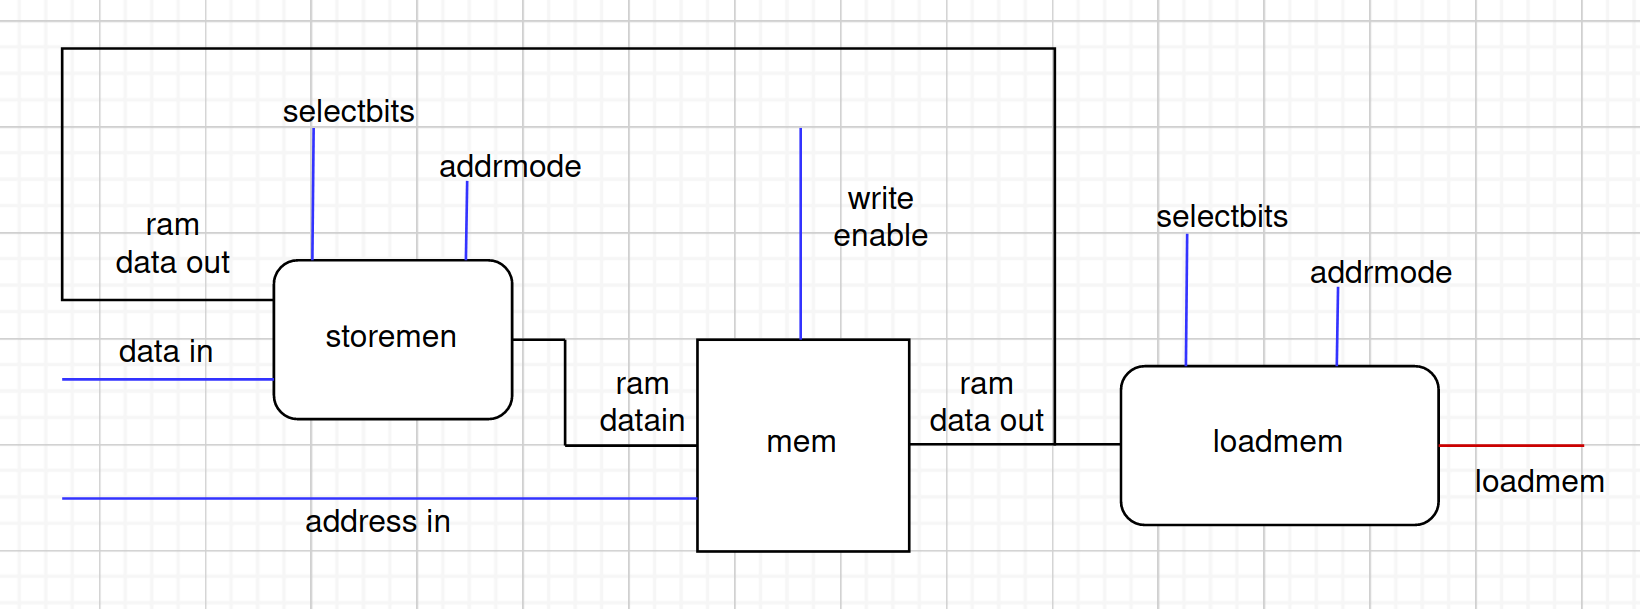
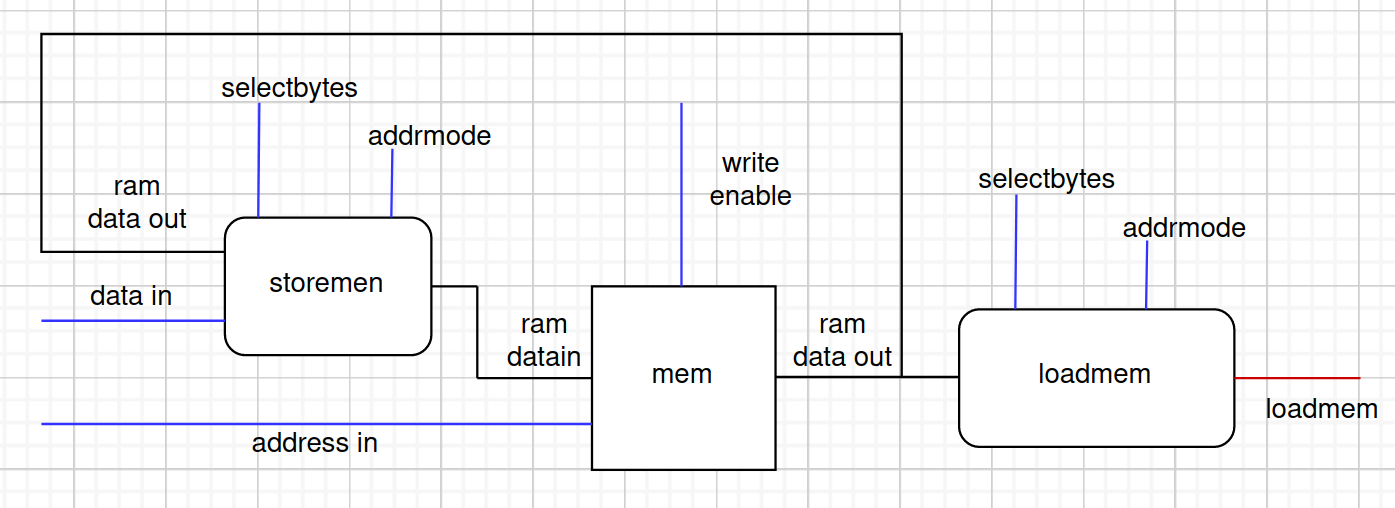
modified the picture of design with more accurate input name and added detail to yesterday's log.

diff --git a/YiZhang's_project_log.md b/YiZhang's_project_log.md
@@ -7,6 +7,8 @@ Initialized the git repo with branches for each feature with our team.
 
 After a discussion of assigning tasks to each person, I am now responsible for data memory.  
 
+Looked at verilator --help and create check.sh to help find syntax error.  
+
 Designed the instructions for all types of load and store with omar.  
 
 Since we should not do bit manipulation inside the ram, I am going to make seperate module to do bit manipulation for loadmem and storemem. The design is shown as below.  
